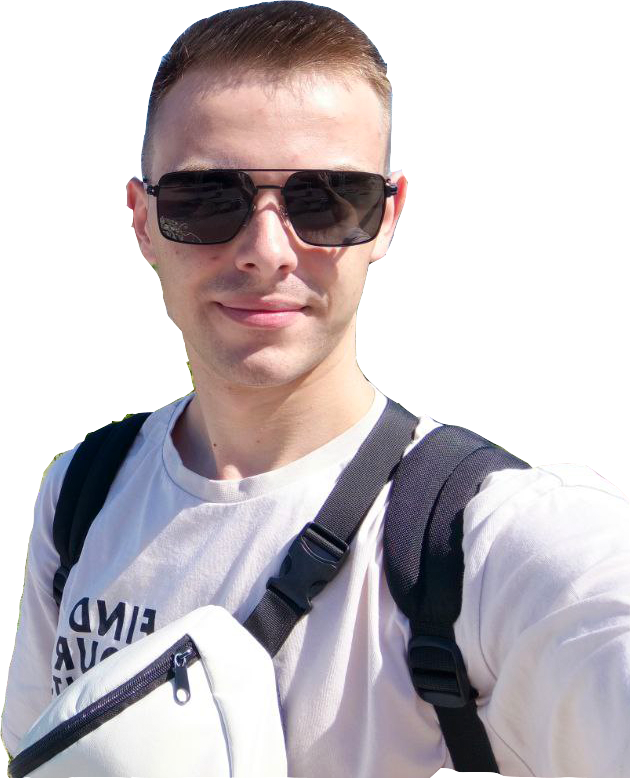
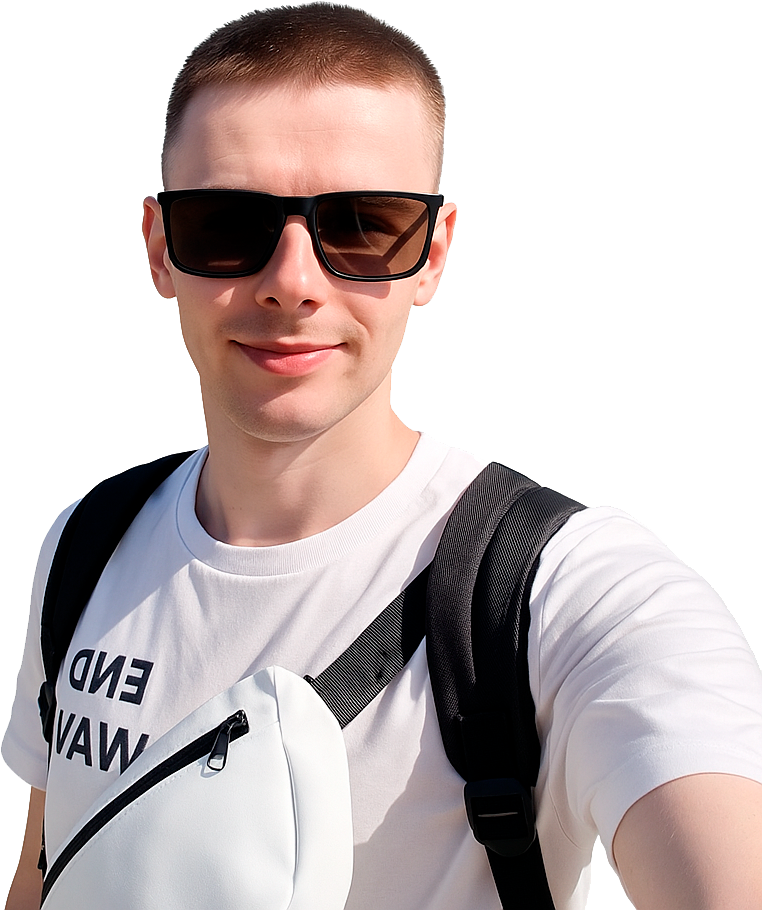
Block  "About" is done!

diff --git a/webfrienf.by/src/components/About/About.tsx b/webfrienf.by/src/components/About/About.tsx
@@ -3,37 +3,39 @@ import s from "./About.module.css";
 import Photo from "../../assets/about_photo.png";
 import { ArticleTitle } from "../UI/ArticleTitle/ArticleTitle";
 import {
-  ABOUT_CONTENT,
-  HeadingAbout,
-  type TKeyOfContact,
+    ABOUT_CONTENT,
+    HeadingAbout,
+    type TKeyOfContact,
 } from "./About.content";
 import { AboutContactBox } from "../UI/AboutContactBox/AboutContactBox";
 import { generalContacts } from "./About.content";
 import type { TLang } from "../../data/Interfaces/IGeneral";
 
 export const About: React.FC<{ lang: TLang }> = ({ lang }) => {
-  const content = ABOUT_CONTENT[lang];
-  const kindOfContacts: TKeyOfContact[] = Object.keys(
-    generalContacts
-  ) as TKeyOfContact[];
+    const content = ABOUT_CONTENT[lang];
+    const kindOfContacts: TKeyOfContact[] = Object.keys(
+        generalContacts
+    ) as TKeyOfContact[];
 
-  return (
-    <section className={s.about}>
-      <ArticleTitle text={HeadingAbout[lang]} />
-      <div className={s.about__content}>
-        <div className={s.about__photo}>
-          <img src={Photo} alt="" />
-        </div>
-        <div className={s.about_text}>
-          <div className={s.about__intro}>{content.text}</div>
-          <div className={s.about__contacts}>
-            {kindOfContacts.map((contact) => {
-              if (contact != "name")
-                return <AboutContactBox contact={contact} />;
-            })}
-          </div>
-        </div>
-      </div>
-    </section>
-  );
+    return (
+        <section className={s.about}>
+            <ArticleTitle text={HeadingAbout[lang]} />
+            <div className={s.about__content}>
+                <div className={s.about__photo}>
+                    <img src={Photo} alt="Здесь должен был быть я:)" />
+                </div>
+                <div className={s.about_text}>
+                    <div className={s.about__intro}>{content.text}</div>
+                    <div className={s.about__contacts} data-copy='copy' >
+                        {
+                            kindOfContacts.map((contact) => {
+                                if (contact != "name")
+                                    return <AboutContactBox contact={contact} key={contact} />;
+                            })
+                        }
+                    </div>
+                </div>
+            </div>
+        </section >
+    );
 };

diff --git a/webfrienf.by/src/components/About/About.module.css b/webfrienf.by/src/components/About/About.module.css
@@ -6,26 +6,56 @@
     gap: 50px;
 }
 
-.about__content div{
+.about__content div {
     flex-basis: 50%;
 }
 
-.about__photo img{
+.about__photo img {
+    display: block;
     width: 70%;
     margin-left: 25%;
 }
 
-.about_text{    
-    padding-right: 10%; 
+.about__photo {
+    position: relative;
 }
 
-.about__intro{
+.about__photo::before,
+.about__photo::after {
+    position: absolute;
+    content: '';
+    display: block;
+
+}
+
+.about__photo::before {
+    bottom: 0;
+    left: 0;
+    width: 100%;
+    height: 100px;
+    background: linear-gradient(180deg, rgba(255, 255, 255, 0) 0%, rgba(185, 194, 202, 1) 100%);
+}
+
+.about__photo::after {
+    bottom: 0;
+    right: 0;
+    width: 100px;
+    height: 100%;
+    background: linear-gradient(90deg, rgba(255, 255, 255, 0) 0%, rgba(185, 194, 202, .6) 25%, rgba(185, 194, 202, 1) 100%);
+}
+
+.about_text {
+    padding-right: 10%;
+}
+
+.about__intro {
     text-align: justify;
     line-height: 1.5;
-    margin-bottom: 20px;
+    margin-bottom: 50px;
 }
 
-.about__contacts{
+.about__contacts {
     display: flex;
     flex-wrap: wrap;
+    justify-content: space-between;
 }

diff --git a/webfrienf.by/src/components/UI/AboutContactBox/AboutContactBox.tsx b/webfrienf.by/src/components/UI/AboutContactBox/AboutContactBox.tsx
@@ -1,17 +1,22 @@
-import React from "react";
+import React, { useRef } from "react";
 import s from "./AboutContactBox.module.css";
 import { generalContacts, type TKeyOfContact } from "../../About/About.content";
+import handleCopyToClipboard from "../../../features/clipBoard";
 
 type TAboutContactBoxProps = {
   contact: TKeyOfContact;
 };
 
-export const AboutContactBox: React.FC<TAboutContactBoxProps> = ({
-  contact,
+export const AboutContactBox: React.FC<TAboutContactBoxProps> = React.memo(({
+  contact
 }) => {
+  const spanElemCopy = useRef<HTMLSpanElement>(null)
+
   return (
-    <div className={s.contactBox} data-social={contact}>
+    <div className={s.contact__box} data-social='toCopy'>
+      <span ref={spanElemCopy} className={s.contact__copy} title="Copy" onClick={() => handleCopyToClipboard({ contact: generalContacts[contact], element: spanElemCopy.current, className: s.copy_wellDone })}> </span>
+      <span className={s.contact__label}>{contact}:</span>
       {generalContacts[contact]}
-    </div>
+    </div >
   );
-};
+});

diff --git a/webfrienf.by/src/components/UI/AboutContactBox/AboutContactBox.module.css b/webfrienf.by/src/components/UI/AboutContactBox/AboutContactBox.module.css
@@ -1,3 +1,33 @@
-.contactBox{
-    border: 1px solid green;
+.contact__box {
+    position: relative;
+    padding: 10px;
+    flex: 1 1 50%;
+    margin-bottom: 20px;
+}
+
+.contact__label {
+    content: '';
+    position: absolute;
+    display: block;
+    top: -25%;
+    left: 25px;
+    text-transform: capitalize;
+    font-weight: bold;
+    color: var(--color-header);
+}
+
+.contact__copy {
+    position: absolute;
+    display: block;
+    width: 20px;
+    height: 20px;
+    left: 0;
+    top: -50%;
+    transform: translateY(50%);
+    background: url('../../../assets/copy.svg') center/cover no-repeat;
+    cursor: copy;
+}
+
+.contact__copy.copy_wellDone {
+    background: url('../../../assets/ok.svg') center/cover no-repeat;
 }

diff --git a/webfrienf.by/src/features/clipBoard.ts b/webfrienf.by/src/features/clipBoard.ts
@@ -1,0 +1,25 @@
+
+export type TCopyProps = {
+    contact: string,
+    element: HTMLSpanElement | null,
+    className: string;
+}
+
+export default function handleCopyToClipboard({contact, element, className}: TCopyProps ): void{
+    if (!element) return
+    try{
+        navigator.clipboard.writeText(contact)
+        requestAnimationFrame(()=>{
+            element.classList.add(className)
+
+            setTimeout(() => {
+                element.classList.remove(className);
+            }, 1500);
+        })
+        
+    } catch (error) {
+        console.error("Копирование не удалось:", error);
+    }
+        
+
+}

diff --git a/webfrienf.by/src/data/Socials/Socials.tsx b/webfrienf.by/src/data/Socials/Socials.tsx
@@ -27,7 +27,7 @@ export const SOCIAL_LIST: ISocials[] = [
     },
     {
         name: "Email",
-        http: "pasha.kozlovskij@list.ru",
+        http: "samsak.developer@internet.ru",
         image: Email
     },
 ] 

diff --git a/webfrienf.by/src/components/Services/Services.module.css b/webfrienf.by/src/components/Services/Services.module.css
@@ -1,7 +1,8 @@
-.services__wrapper{
+.services__wrapper {
     display: flex;
     flex-direction: row;
     justify-content: space-around;
     align-items: stretch;
     gap: 20px;
+    margin-bottom: 70px;
 }

diff --git a/webfrienf.by/src/components/UI/WrapperContent/WrapperContent.module.css b/webfrienf.by/src/components/UI/WrapperContent/WrapperContent.module.css
@@ -3,5 +3,5 @@
     max-width: 1440px;
     height: 100%;
     /* border: 1px solid red; */
-    padding: 20px 20px 70px 20px;
+    padding: 20px;
 }
